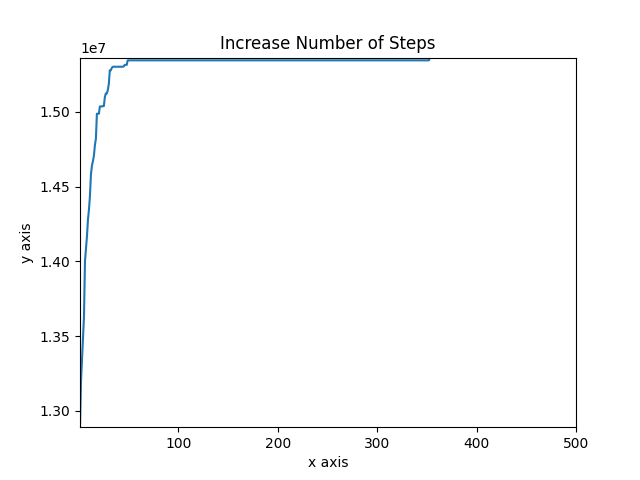
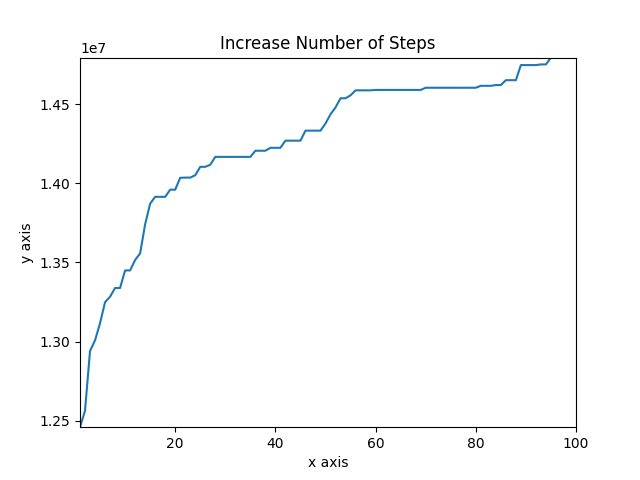
changed algorithm variables

diff --git a/project_code/algorithms/genetic.py b/project_code/algorithms/genetic.py
@@ -11,8 +11,8 @@ from .helpers import swap_with_random_rotation
 
 DIRECTIONS = ["UP","RIGHT","DOWN","LEFT","TOP_RIGHT", "BOTTOM_RIGHT", "TOP_LEFT", "BOTTOM_LEFT"]
 STEPS = 1
-NR_MOVES = 20
-GENERATIONS = 500
+NR_MOVES = 10
+GENERATIONS = 200
 TOP_X = 10
 
 
@@ -170,8 +170,8 @@ class Genetic():
         total_generations = []
 
         generation_counter = 0
-
-
+        best_so_far = -1
+        extra_moves = 0
 
         # for a number of generations, create new generation
         for z in range(GENERATIONS):
@@ -183,8 +183,8 @@ class Genetic():
                     new_map = deepcopy(generation[g][0]) 
 
                     swapped_map = swap_with_random_rotation(new_map)
-
-                    swapped_map = do_random_move(swapped_map)
+                    for _ in range( 1 + extra_moves):
+                        swapped_map = do_random_move(swapped_map)
                     swapped_map.calculate_distance(swapped_map.all_land_objects)
                     value = swapped_map.calculate_price(swapped_map.all_land_objects)
 
@@ -202,12 +202,18 @@ class Genetic():
             # sort this new generation by value and keep top X
             new_generation = sorted(new_generation,key=lambda z : z [1], reverse=True)
             generation = new_generation[:TOP_X]
-
+            # if generation[0][1]  == best_so_far:
+            #     extra_moves += 1
+            # else:
+            #     extra_moves = 0 
+            # best_so_far = generation [0][1]
             # for i in range(5): 
             #     visualise(generation[i][0].all_land_objects,generation[0][1],f'output/intermediate_generation{z}__{i}.png')
 
             # print value of the best map from this new generation
-            print(new_generation[0][1])
+            value = round(new_generation[0][1])
+            print(f"Generation number: {generation_counter}")
+            print(value)
         
             # keep track of iterations
             generation_counter += 1
@@ -218,12 +224,12 @@ class Genetic():
 
         
         # visualise iterations graph
-        plt.plot(total_generations, results)
-        plt.xlabel('x axis')
-        plt.ylabel('y axis') 
-        plt.title('Increase Number of Steps')
-        plt.margins(0,0)
-        plt.savefig('output/increase_nr_steps_20.png')
+        # plt.plot(total_generations, results)
+        # plt.xlabel('x axis')
+        # plt.ylabel('y axis') 
+        # plt.title('Increase Number of Steps')
+        # plt.margins(0,0)
+        # plt.savefig('output/increase_nr_steps_20.png')
 
         # return the housing map with the best value
         return generation[0][0]

diff --git a/main.py b/main.py
@@ -27,9 +27,15 @@ if __name__ == "__main__":
     
     
     # --------------------------- Random  --------------------------
-    # empty_graph = Land(f"data/{wijk_number}.csv")
-    # winner_graph = Randomise(empty_graph, number_of_houses, 400)
+    empty_graph = Land(f"data/{wijk_number}.csv")
+    winner_graph = Randomise(empty_graph, number_of_houses, 400)
     # visualise(winner_graph.winner.all_land_objects, winner_graph.winner.total, len(winner_graph.winner.all_land_objects))
+    counter = 0
+    for land_object in winner_graph.winner.all_land_objects:
+        if land_object.name != 'water':
+            counter += 1
+
+    visualise(winner_graph.winner.all_land_objects, winner_graph.winner.total, f"{counter} houses")
 
     # # --------------------------- Hillclimber swap ---------------------------
     # empty_graph = Land(f"data/{wijk_number}.csv")
@@ -38,15 +44,15 @@ if __name__ == "__main__":
 
 
     #--------------------------- Genetic ---------------------------
-    empty_graph = Land(f"data/{wijk_number}.csv")
-    winner_graph = Genetic(empty_graph, number_of_houses, 100)
+    # empty_graph = Land(f"data/{wijk_number}.csv")
+    # winner_graph = Genetic(empty_graph, number_of_houses, 100)
 
-    counter = 0
-    for land_object in winner_graph.winner.all_land_objects:
-        if land_object.name != 'water':
-            counter += 1
+    # counter = 0
+    # for land_object in winner_graph.winner.all_land_objects:
+    #     if land_object.name != 'water':
+    #         counter += 1
 
-    visualise(winner_graph.winner.all_land_objects, winner_graph.winner.total, f"{counter} houses")
+    # visualise(winner_graph.winner.all_land_objects, winner_graph.winner.total, f"{counter} houses")
     
 
     # # --------------------------- Simulated annealing  --------------------------

diff --git a/project_code/visualisations/visualise.py b/project_code/visualisations/visualise.py
@@ -3,7 +3,7 @@ import matplotlib.patches as patches
 # from mpl_toolkits.mplot3d import Axes3D
 # from mpl_toolkits.mplot3d.art3d import Poly3DCollection
 
-def visualise(land_objects, total, number_land_objects, out_path="output/test.png"):
+def visualise(land_objects, total, number_land_objects, out_path="output/20huizen_wijk1.png"):
 
     # Create data
     fig, ax = plt.subplots()
@@ -37,7 +37,7 @@ def visualise(land_objects, total, number_land_objects, out_path="output/test.pn
 
     #normal plot
     plt.plot(180 , 160)
-    plt.title(f'Housing map, total: {total},  {number_land_objects}')
+    plt.title(f'Housing map, total: {total}, Number of houses: {number_land_objects}')
     plt.xlabel('width')
     plt.ylabel('depth')
     plt.margins(0,0)
